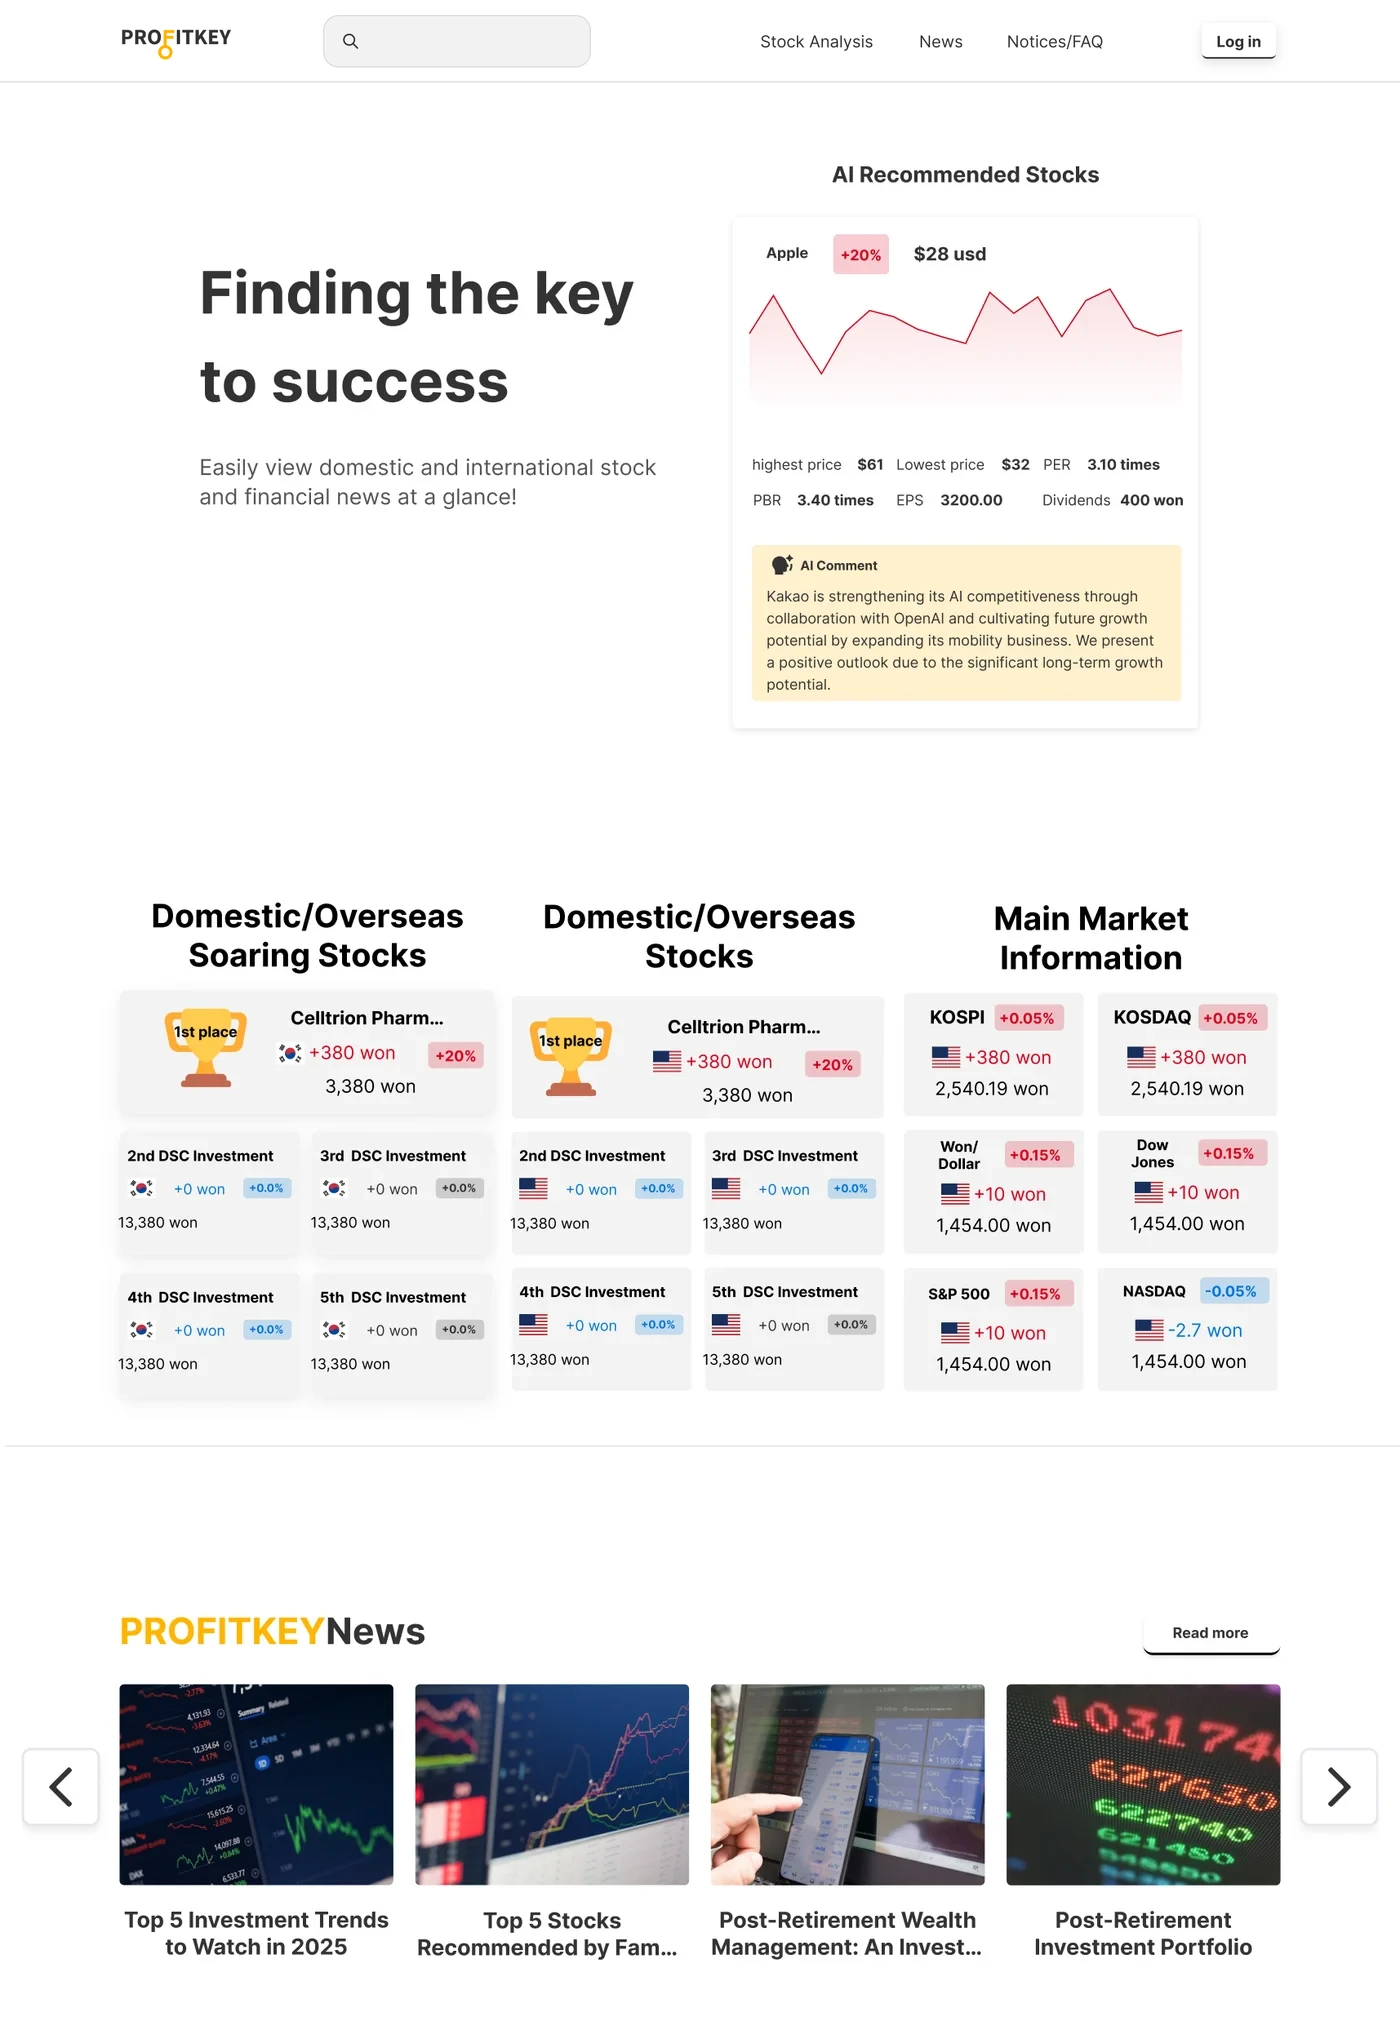
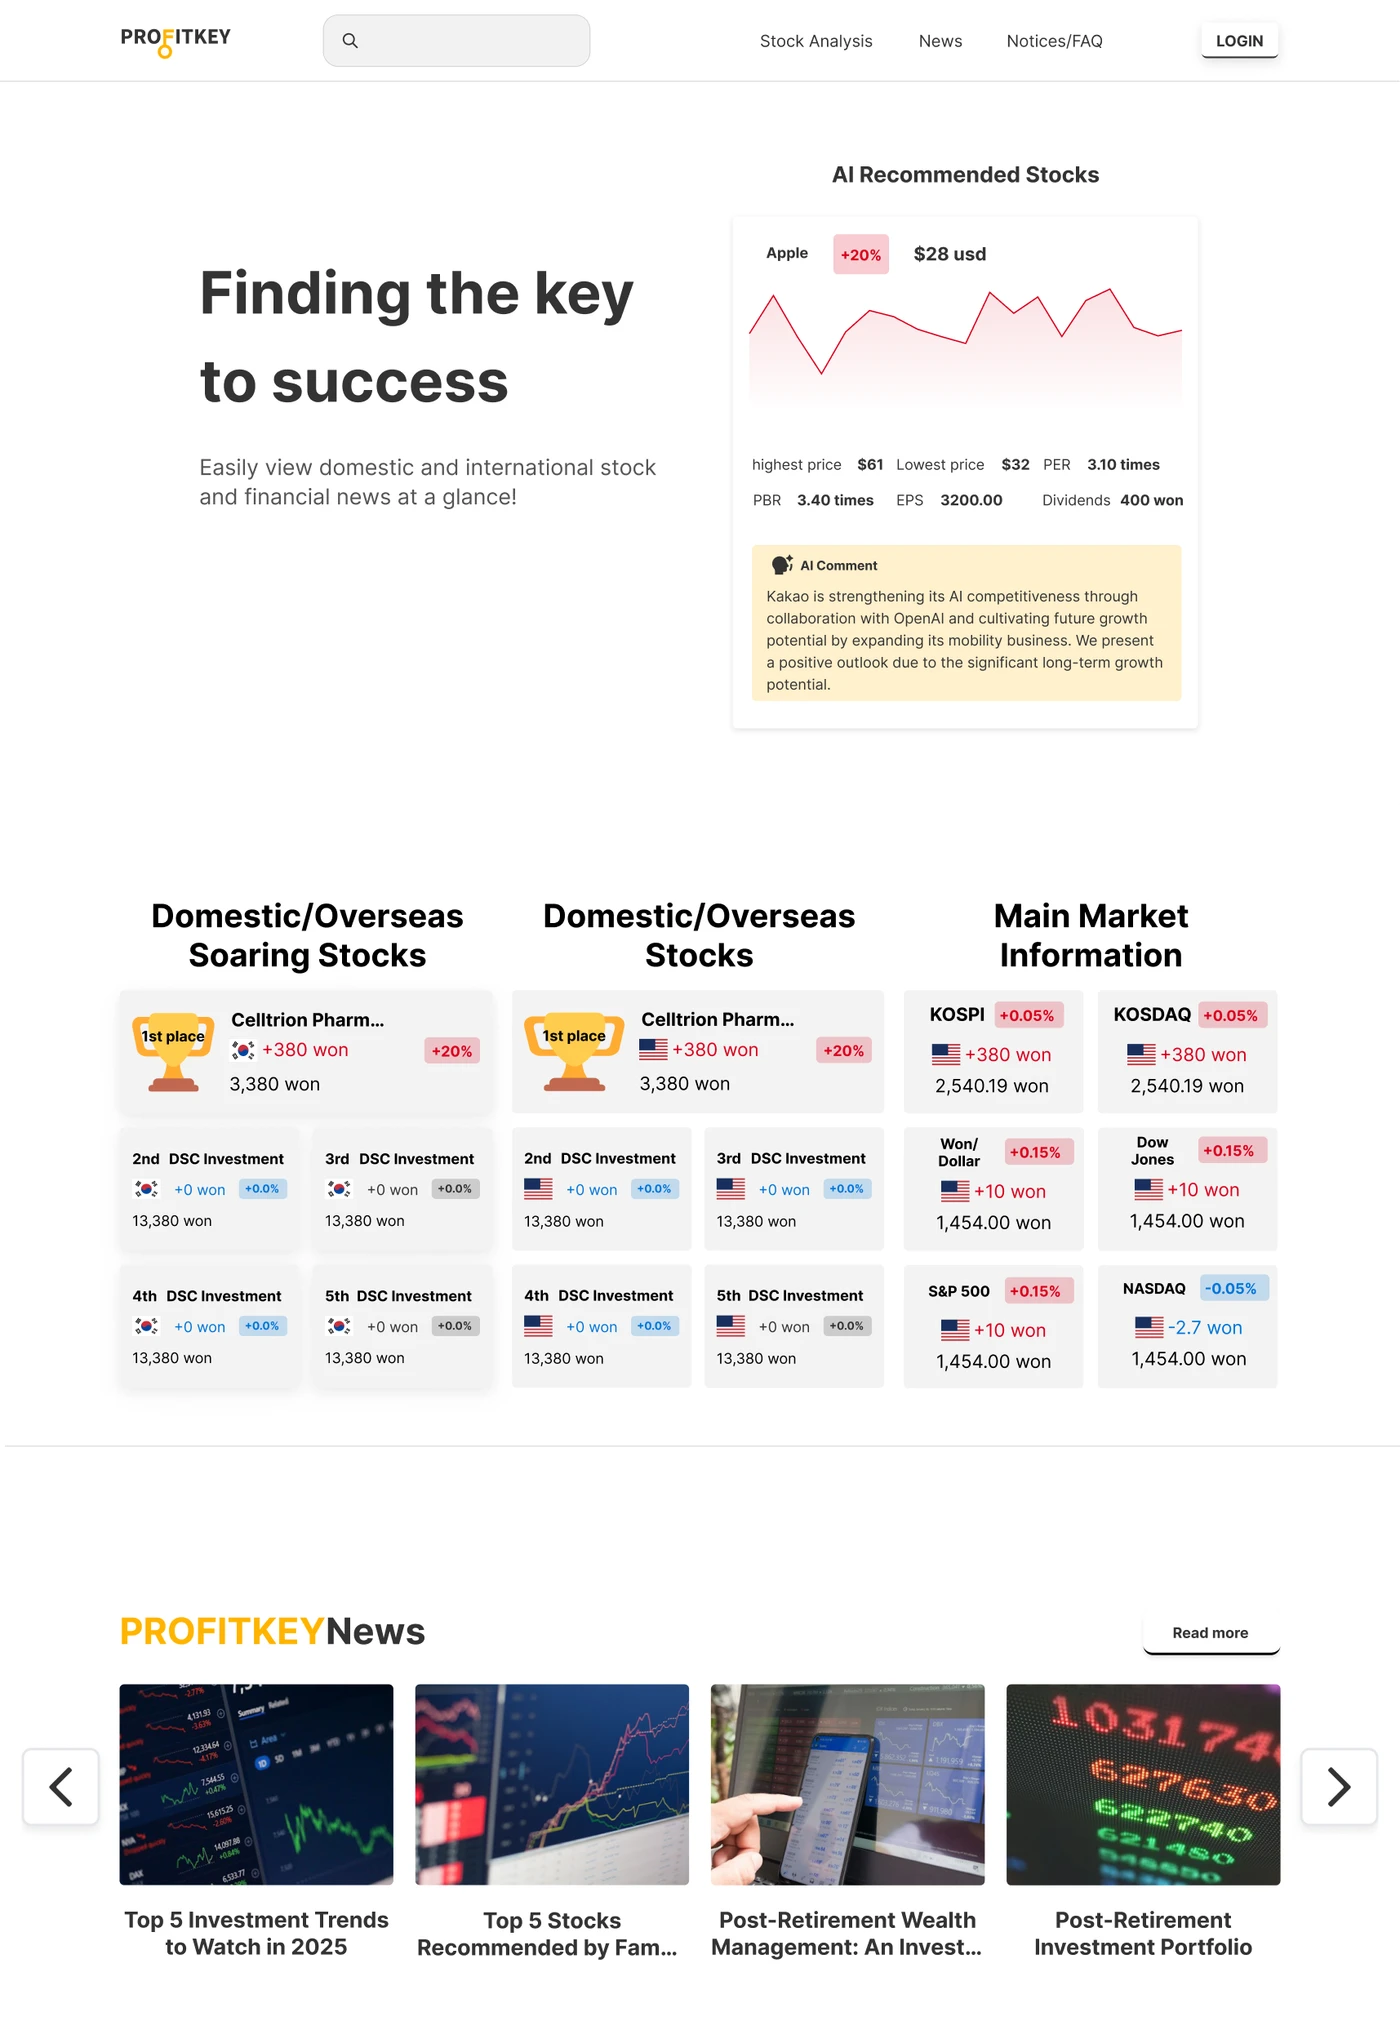
Realign the PROFITKEY Home tables and rename labels
The Domestic/Overseas tables get one card layout, the Home screen shows LOGIN,
the final design step reads LOGIN, and Home's My background is now Experiences.

diff --git a/src/data/projects.ts b/src/data/projects.ts
@@ -466,9 +466,9 @@ export const projects: Project[] = glueAll<Project[]>([
                 figure: { ...screen('profitkey-en-edit-profile', 'PROFITKEY edit profile page: change nickname and email address, with a log out button.', 'Edit profile', 1400, 756), tall: true },
               },
               {
-                title: 'Log in',
+                title: 'LOGIN',
                 note: 'Members log in with an email address and password, or with a Google, Facebook or Apple account.',
-                figure: { ...screen('profitkey-en-login', 'PROFITKEY login page: the logo, email address and password fields, Remember Me, Forgot password, a yellow Login button, then Log in with Google, Facebook and Apple.', 'Log in', 1400, 935), tall: true },
+                figure: { ...screen('profitkey-en-login', 'PROFITKEY login page: the logo, email address and password fields, Remember Me, Forgot password, a yellow Login button, then Log in with Google, Facebook and Apple.', 'LOGIN', 1400, 935), tall: true },
               },
             ],
           },

diff --git a/src/components/AboutTeaser.tsx b/src/components/AboutTeaser.tsx
@@ -36,7 +36,7 @@ export function AboutTeaser() {
               ))}
             </ul>
 
-            <h3 className="about-home__h3">My background</h3>
+            <h3 className="about-home__h3">Experiences</h3>
             <ol className="about-home__timeline">
               {about.experience.map((e) => (
                 <li key={e.org}>
